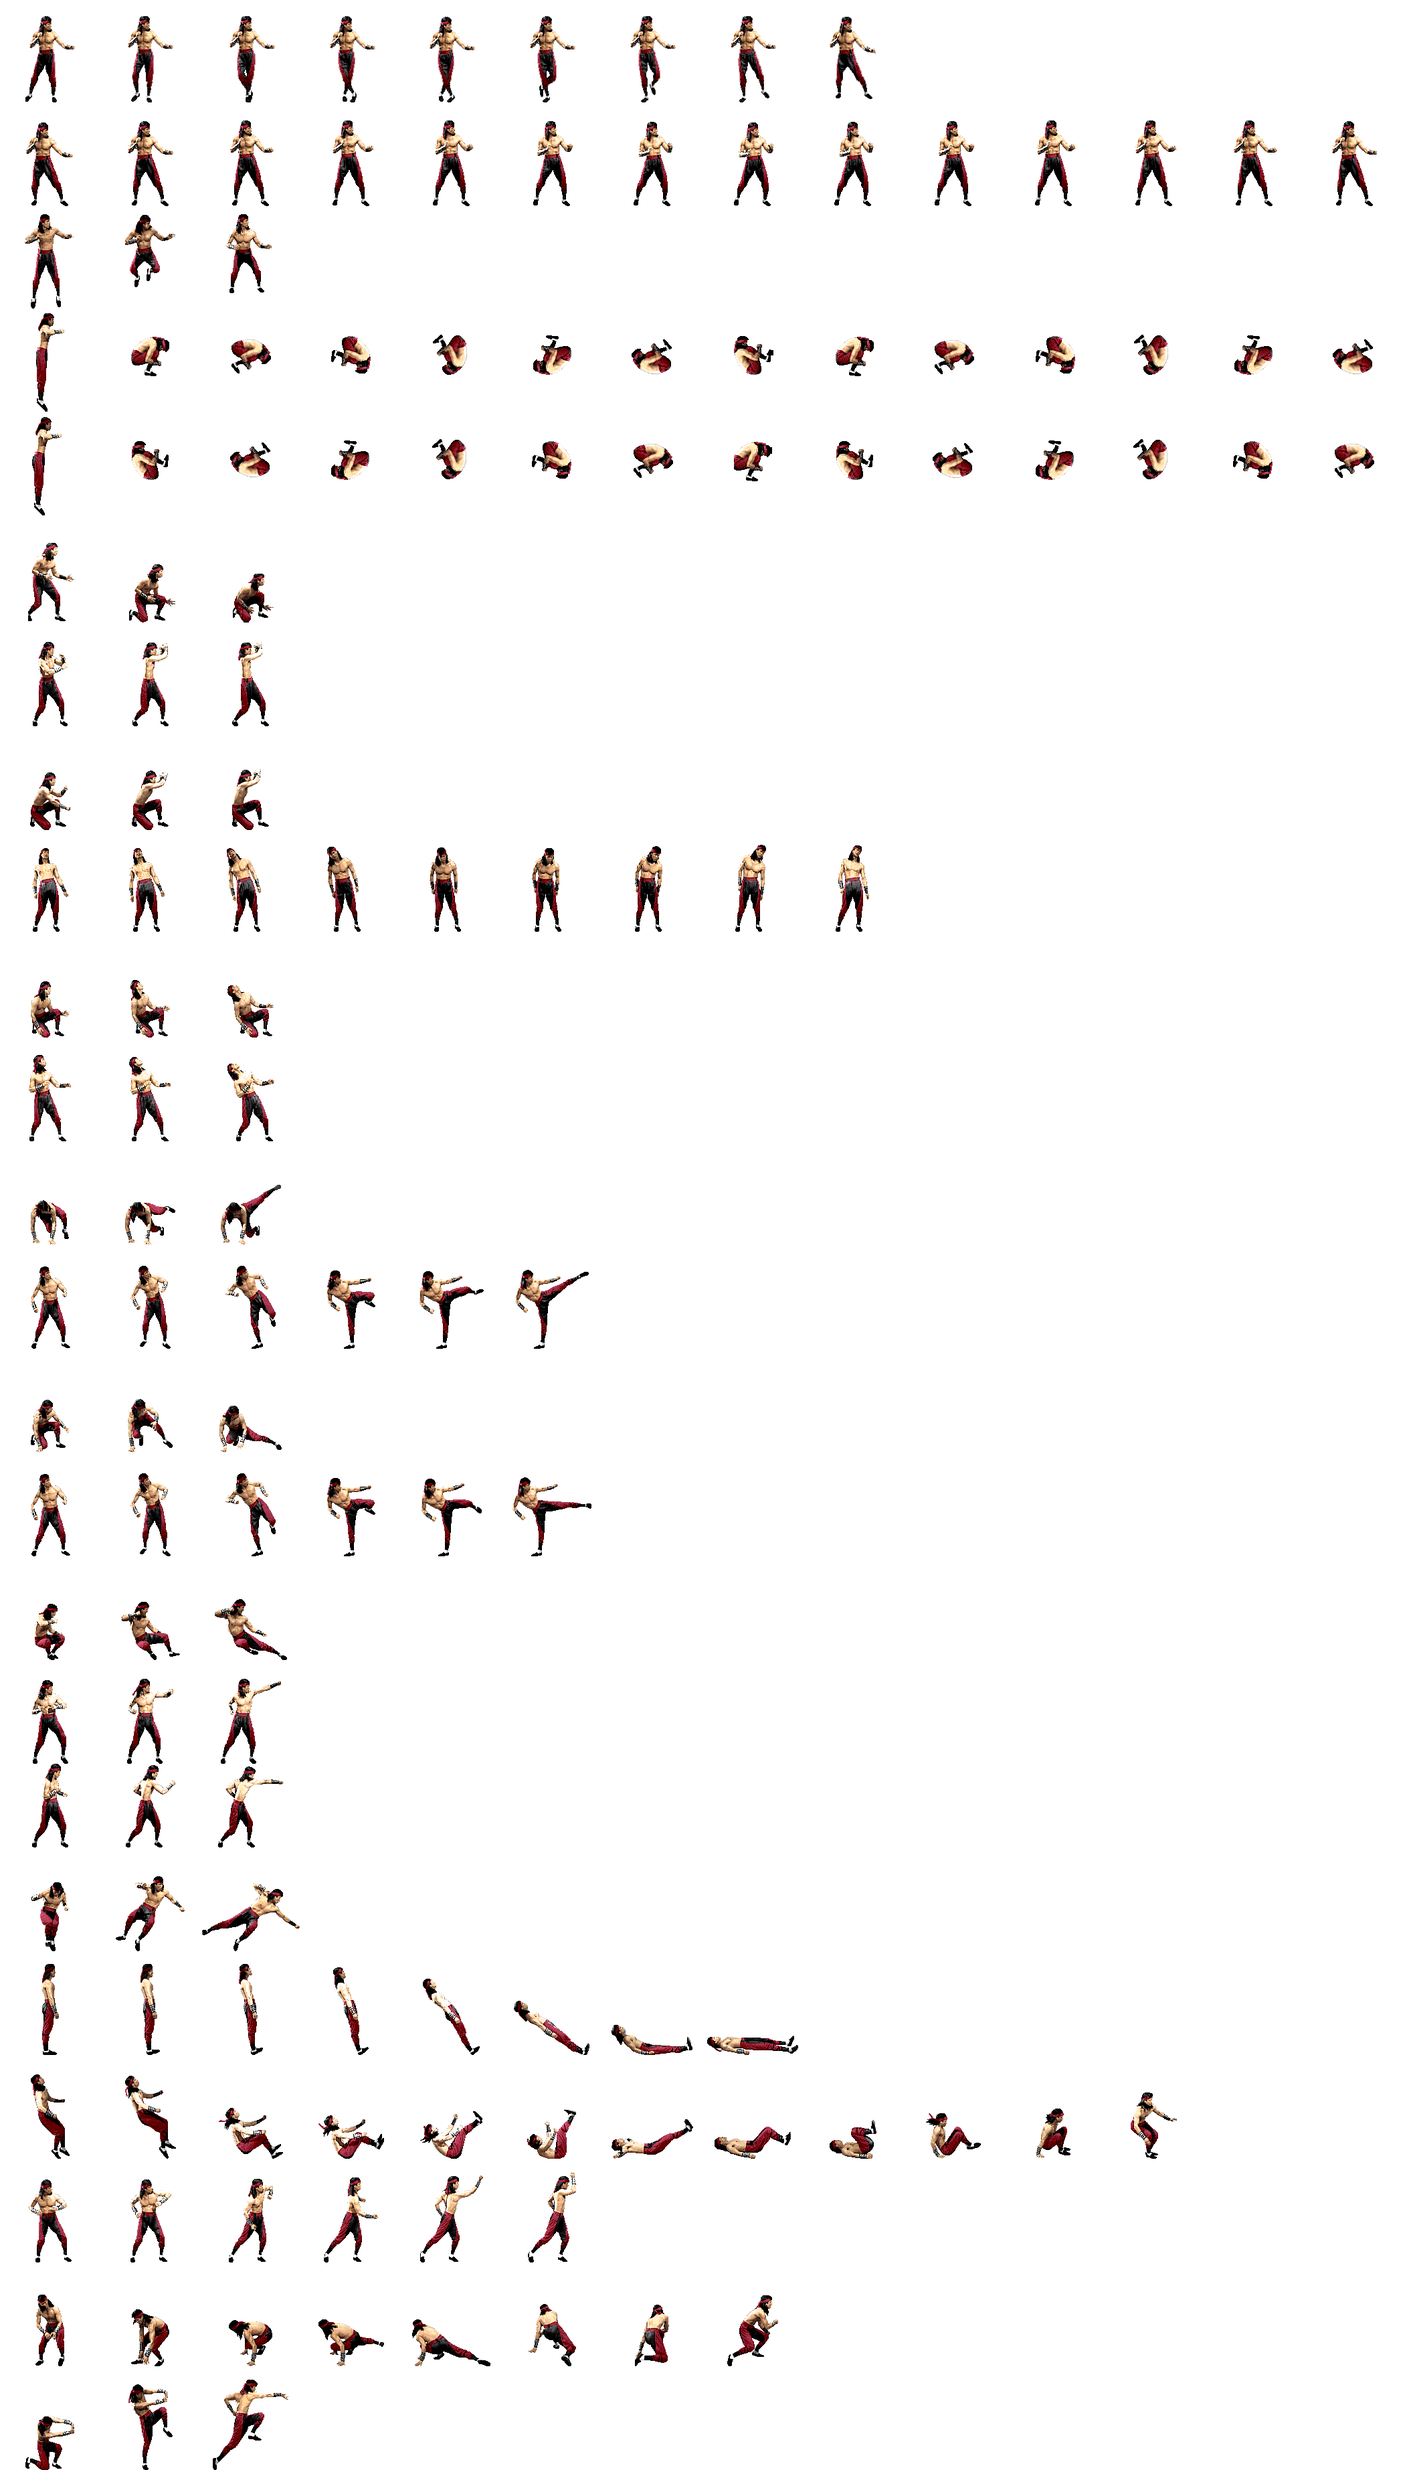
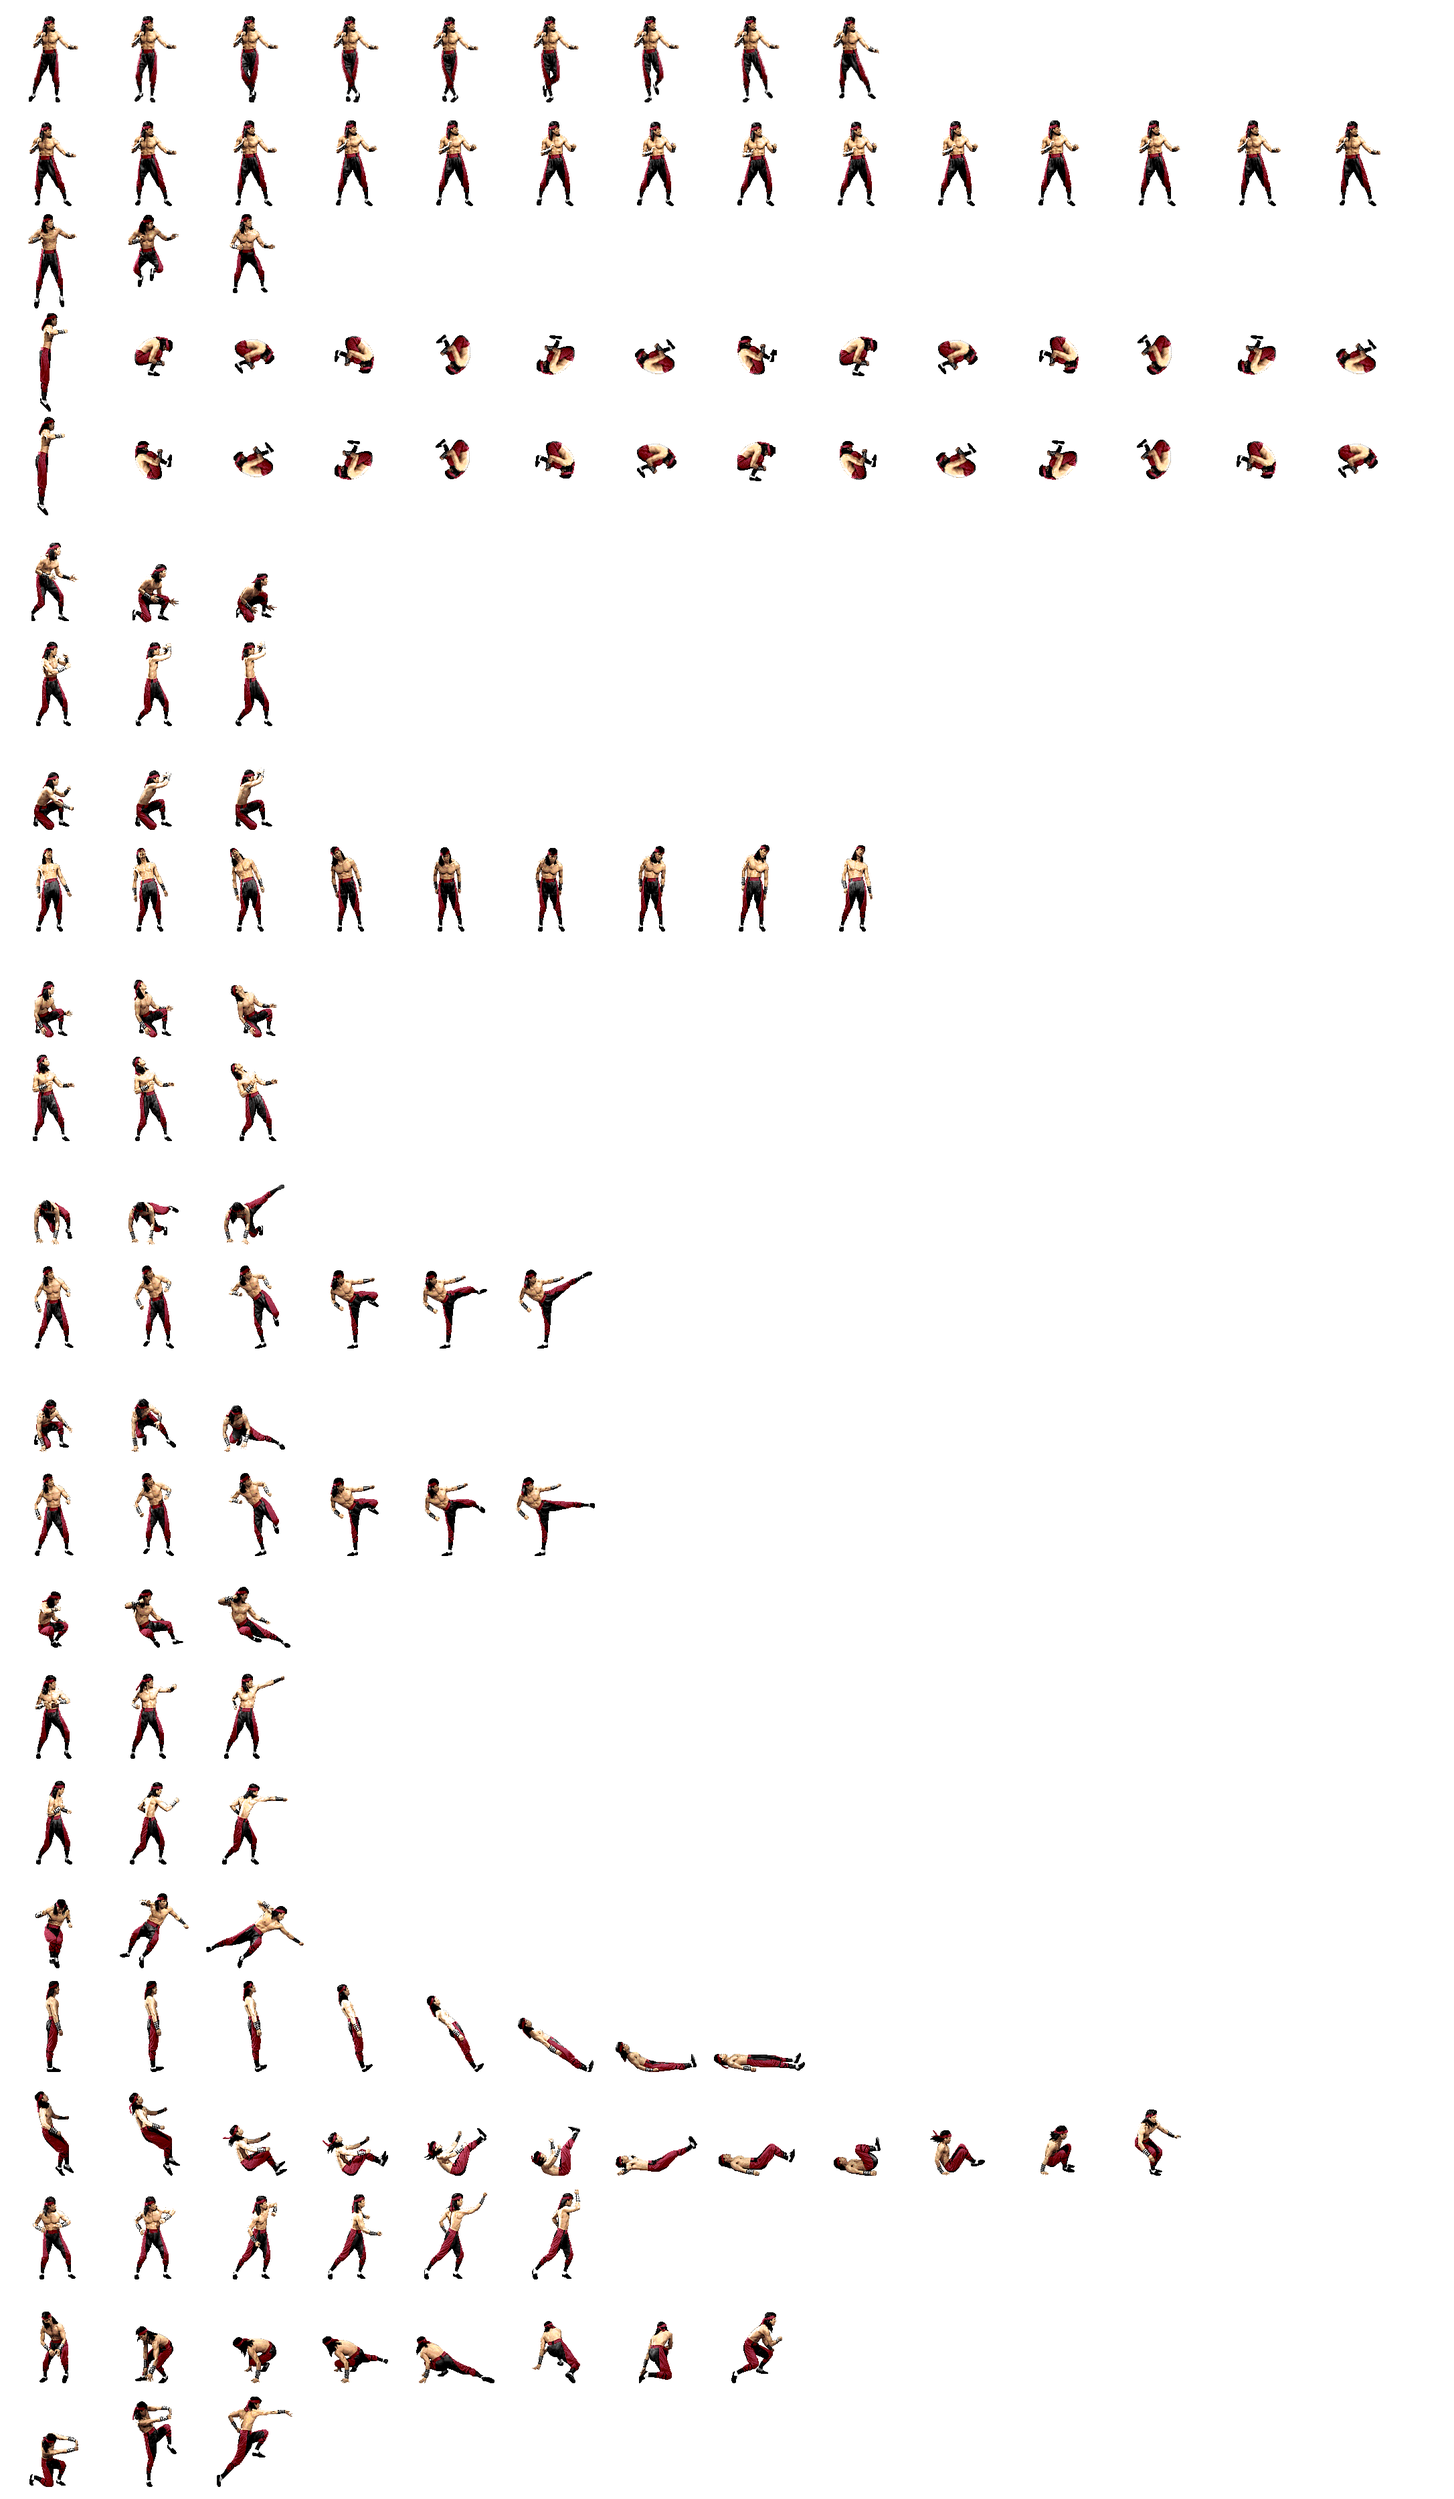
Agregados en sprites
-Muestro sprites cuando dispara.
-Acomodo spritesheet de liukang para visualizar bien los sprites en el
disparo.
-Agrego datos de las nuevas acciones en el spriteparse.json

diff --git a/Source/Personaje.cpp b/Source/Personaje.cpp
@@ -39,6 +39,8 @@ Personaje::Personaje(Ventana* ventana, PersonajeData data, EscenarioData escenar
 	this->_isFallingLeft = false;
 	
 	this->_isThrowing = false;
+	this->_weaponInAir = false;
+	this->_timesThrow = 0;
 
 	this->_isBlocking = false;
 	this->_isDizzy = false;
@@ -97,9 +99,10 @@ void Personaje::lanzarArma()
 	//TODO: Chequear lanzamiento en salto y agachado
 	if ( !this->_isBlocking && !this->_isHiKicking ) // TODO: Agregar otras acciones.
 	{
-		if (!this->_isThrowing)   //( !this->isFalling() && !this->isJumping() && !this->_isThrowing )
+		if (!this->_weaponInAir)   //( !this->isFalling() && !this->isJumping() && !this->_isThrowing )
 		{
 			this->_isThrowing = true;
+			this->_weaponInAir = true;
 			this->resetearArma();
 		}
 	}
@@ -186,81 +189,101 @@ void Personaje::view(Personaje* otherPlayer)
 	this->setBoundingBox();
 	//printf("El personaje esta en %0.2f\n",_pos_x);
 	//cout << this->_pos_y << endl;
+	if ( this->_weaponInAir ) this->arma->viewLanzar();
 	if ( this->_isThrowing )
 	{
 		if ( this->_isDucking )
 		{
 			// TODO: Mostrar disparo agachado
-			this->viewDizzy();
+			this->viewShotWeapon(0);
+			this->_timesThrow ++;
+			if ( this->_timesThrow >= 10)
+			{
+				this->_isThrowing = false;
+				this->_timesThrow = 0;
+			}
 		}
 		else if ( this->_isJumping || this->_isFalling)
 		{
 			// TODO: Mostrar disparo en el aire
-			this->viewDizzy();
+			this->viewShotWeapon(2);
+			this->_timesThrow ++;
+			if ( this->_timesThrow >= 10)
+			{
+				this->_isThrowing = false;
+				this->_timesThrow = 0;
+			}
 		}
 		else
 		{
 			// TODO: Mostrar disparo parado
-			this->viewDizzy();
+			this->viewShotWeapon(1);
+			this->_timesThrow ++;
+			if ( this->_timesThrow >= 10)
+			{
+				this->_isThrowing = false;
+				this->_timesThrow = 0;
+			}
 		}
-		this->arma->viewLanzar();
-	}
-	else if ( this->isJumping() || this->isFalling() )
-	{
-		if ( this->_isJumpingRight || this->_isFallingRight)
-		{
-			//cout << "SALTO DERECHA" << endl;
-			this->viewJumpRight();
-		}
-		else if ( this->_isJumpingLeft || this->_isFallingLeft)
-		{
-			//cout << "SALTO IZQUIERDA" << endl;
-			this->viewJumpLeft();
-		}
-		else
-		{
-			this->viewJump();
-		}
-	}
-	else if (this->_isDucking && this->_isBlocking)
-	{
-		this->viewBlockDuck();
-	}else if (this->_isDucking && this->_isHiKicking)
-	{
-		this->viewHiKick();
-	}else if (this->_isDucking && this->_beingHit)
-	{
-		this->viewHit();
-	}
-	else if (this->_isDucking)
-	{
-		this->viewDuck();
-	}
-	else if (this->_isDizzy)
-	{
-		this->viewDizzy();
-	}
-	else if (this->_isBlocking)
-	{
-		this->viewBlock();
-	}
-	else if (this->_isWalking)
-	{
-		this->viewWalking();
-	}
-	else if (this->_isHiKicking)
-	{
-		this->viewHiKick();
-	}
-	else if (this->_beingHit)
-	{
-			this->viewHit();
 	}
 	else
 	{
-		this->showIdle();
+		if ( this->isJumping() || this->isFalling() )
+		{
+			if ( this->_isJumpingRight || this->_isFallingRight)
+			{
+				//cout << "SALTO DERECHA" << endl;
+				this->viewJumpRight();
+			}
+			else if ( this->_isJumpingLeft || this->_isFallingLeft)
+			{
+				//cout << "SALTO IZQUIERDA" << endl;
+				this->viewJumpLeft();
+			}
+			else
+			{
+				this->viewJump();
+			}
+		}
+		else if (this->_isDucking && this->_isBlocking)
+		{
+			this->viewBlockDuck();
+		}else if (this->_isDucking && this->_isHiKicking)
+		{
+			this->viewHiKick();
+		}else if (this->_isDucking && this->_beingHit)
+		{
+			this->viewHit();
+		}
+		else if (this->_isDucking)
+		{
+			this->viewDuck();
+		}
+		else if (this->_isDizzy)
+		{
+			this->viewDizzy();
+		}
+		else if (this->_isBlocking)
+		{
+			this->viewBlock();
+		}
+		else if (this->_isWalking)
+		{
+			this->viewWalking();
+		}
+		else if (this->_isHiKicking)
+		{
+			this->viewHiKick();
+		}
+		else if (this->_beingHit)
+		{
+				this->viewHit();
+		}
+		else
+		{
+			this->showIdle();
+		}
 	}
-	
 	//int x = get_x_px();
 	//int y = get_y_px();
 		//cout << "La posicion logica en x es " << _pos_x << " y en px es " << x << endl;
@@ -536,6 +559,15 @@ void Personaje::viewJumpLeft()
 	int y = get_y_px();
 	this->_handler->renderAnimation(this->_orientacion,x,y,_ancho_px,_alto_px,currentClip);
 	pos_last_action = pos_fil;
+}
+
+void Personaje::viewShotWeapon(size_t posicion)
+{
+	SDL_Rect* currentClip = &(this->vectorSprites[POS_FILA_ARMA][posicion]);
+	int x = get_x_px();
+	int y = get_y_px();
+	this->_handler->renderAnimation(this->_orientacion,x,y,_ancho_px,_alto_px,currentClip);
+	cout << "X = " << x << " Y = ;" << y << "- Ancho px = " << _ancho_px << ", Alto px = " << _alto_px << endl;
 }
 
 int Personaje::get_x_px()
@@ -818,7 +850,7 @@ void Personaje::continueAction(float factor_x, float factor_y, Personaje* otherP
 		}
 	}
 
-	if(this->_isThrowing)
+	if(this->_weaponInAir)
 	{
 		if(!arma->_orientacion)
 		{
@@ -826,7 +858,7 @@ void Personaje::continueAction(float factor_x, float factor_y, Personaje* otherP
 			//TODO: Hay que cambiar los límites del arma para que no haya error - _escenario.ancho y 0 no van
 			if ((new_x_arma >= (this->_ventana->_pos_log_x + this->_ventana->_ancho_log) ) || (this->hayColision(otherPers->boundingBox, arma->boundingBox)))
 			{
-				this->_isThrowing = false;
+				this->_weaponInAir = false;
 				this->resetearArma();
 			}
 			else
@@ -841,7 +873,7 @@ void Personaje::continueAction(float factor_x, float factor_y, Personaje* otherP
 					if(this->hayColision(otherPers->boundingBox, between_frames))
 					{
 						//Hay hit entre 2 frames
-						this->_isThrowing = false;
+						this->_weaponInAir = false;
 						this->resetearArma();
 					}
 					else
@@ -859,7 +891,7 @@ void Personaje::continueAction(float factor_x, float factor_y, Personaje* otherP
 		{
 			if ((new_x_arma <= this->_ventana->_pos_log_x) || (this->hayColision(otherPers->boundingBox, arma->boundingBox)))
 			{
-				this->_isThrowing = false;
+				this->_weaponInAir = false;
 				this->resetearArma();
 			}
 			else
@@ -874,7 +906,7 @@ void Personaje::continueAction(float factor_x, float factor_y, Personaje* otherP
 					if(this->hayColision(otherPers->boundingBox, between_frames))
 					{
 						//Hay hit entre 2 frames
-						this->_isThrowing = false;
+						this->_weaponInAir = false;
 						this->resetearArma();
 					}
 					else
@@ -915,6 +947,7 @@ bool Personaje::isJumpingLeft()
 bool Personaje::isDucking() {
 	return this->_isDucking;
 }
+
 void Personaje::moveRight(float factor)
 {
 	this->_isDucking = false;

diff --git a/Headers/Personaje.h b/Headers/Personaje.h
@@ -88,7 +88,11 @@ class Personaje
 		bool _canMove;
 		bool _isHiKicking;
 
+		// For throwable weapon.
 		bool _isThrowing;
+		bool _weaponInAir;
+		int _timesThrow;
+
 
 		bool _isBlocking;
 		bool _isDizzy;
@@ -106,6 +110,7 @@ class Personaje
 		void viewJumpLeft();
 		void viewHiKick();
 		void viewHit();
+		void viewShotWeapon(size_t posicion);
 		void setBoundingBox();
 		void resetearArma();
 
